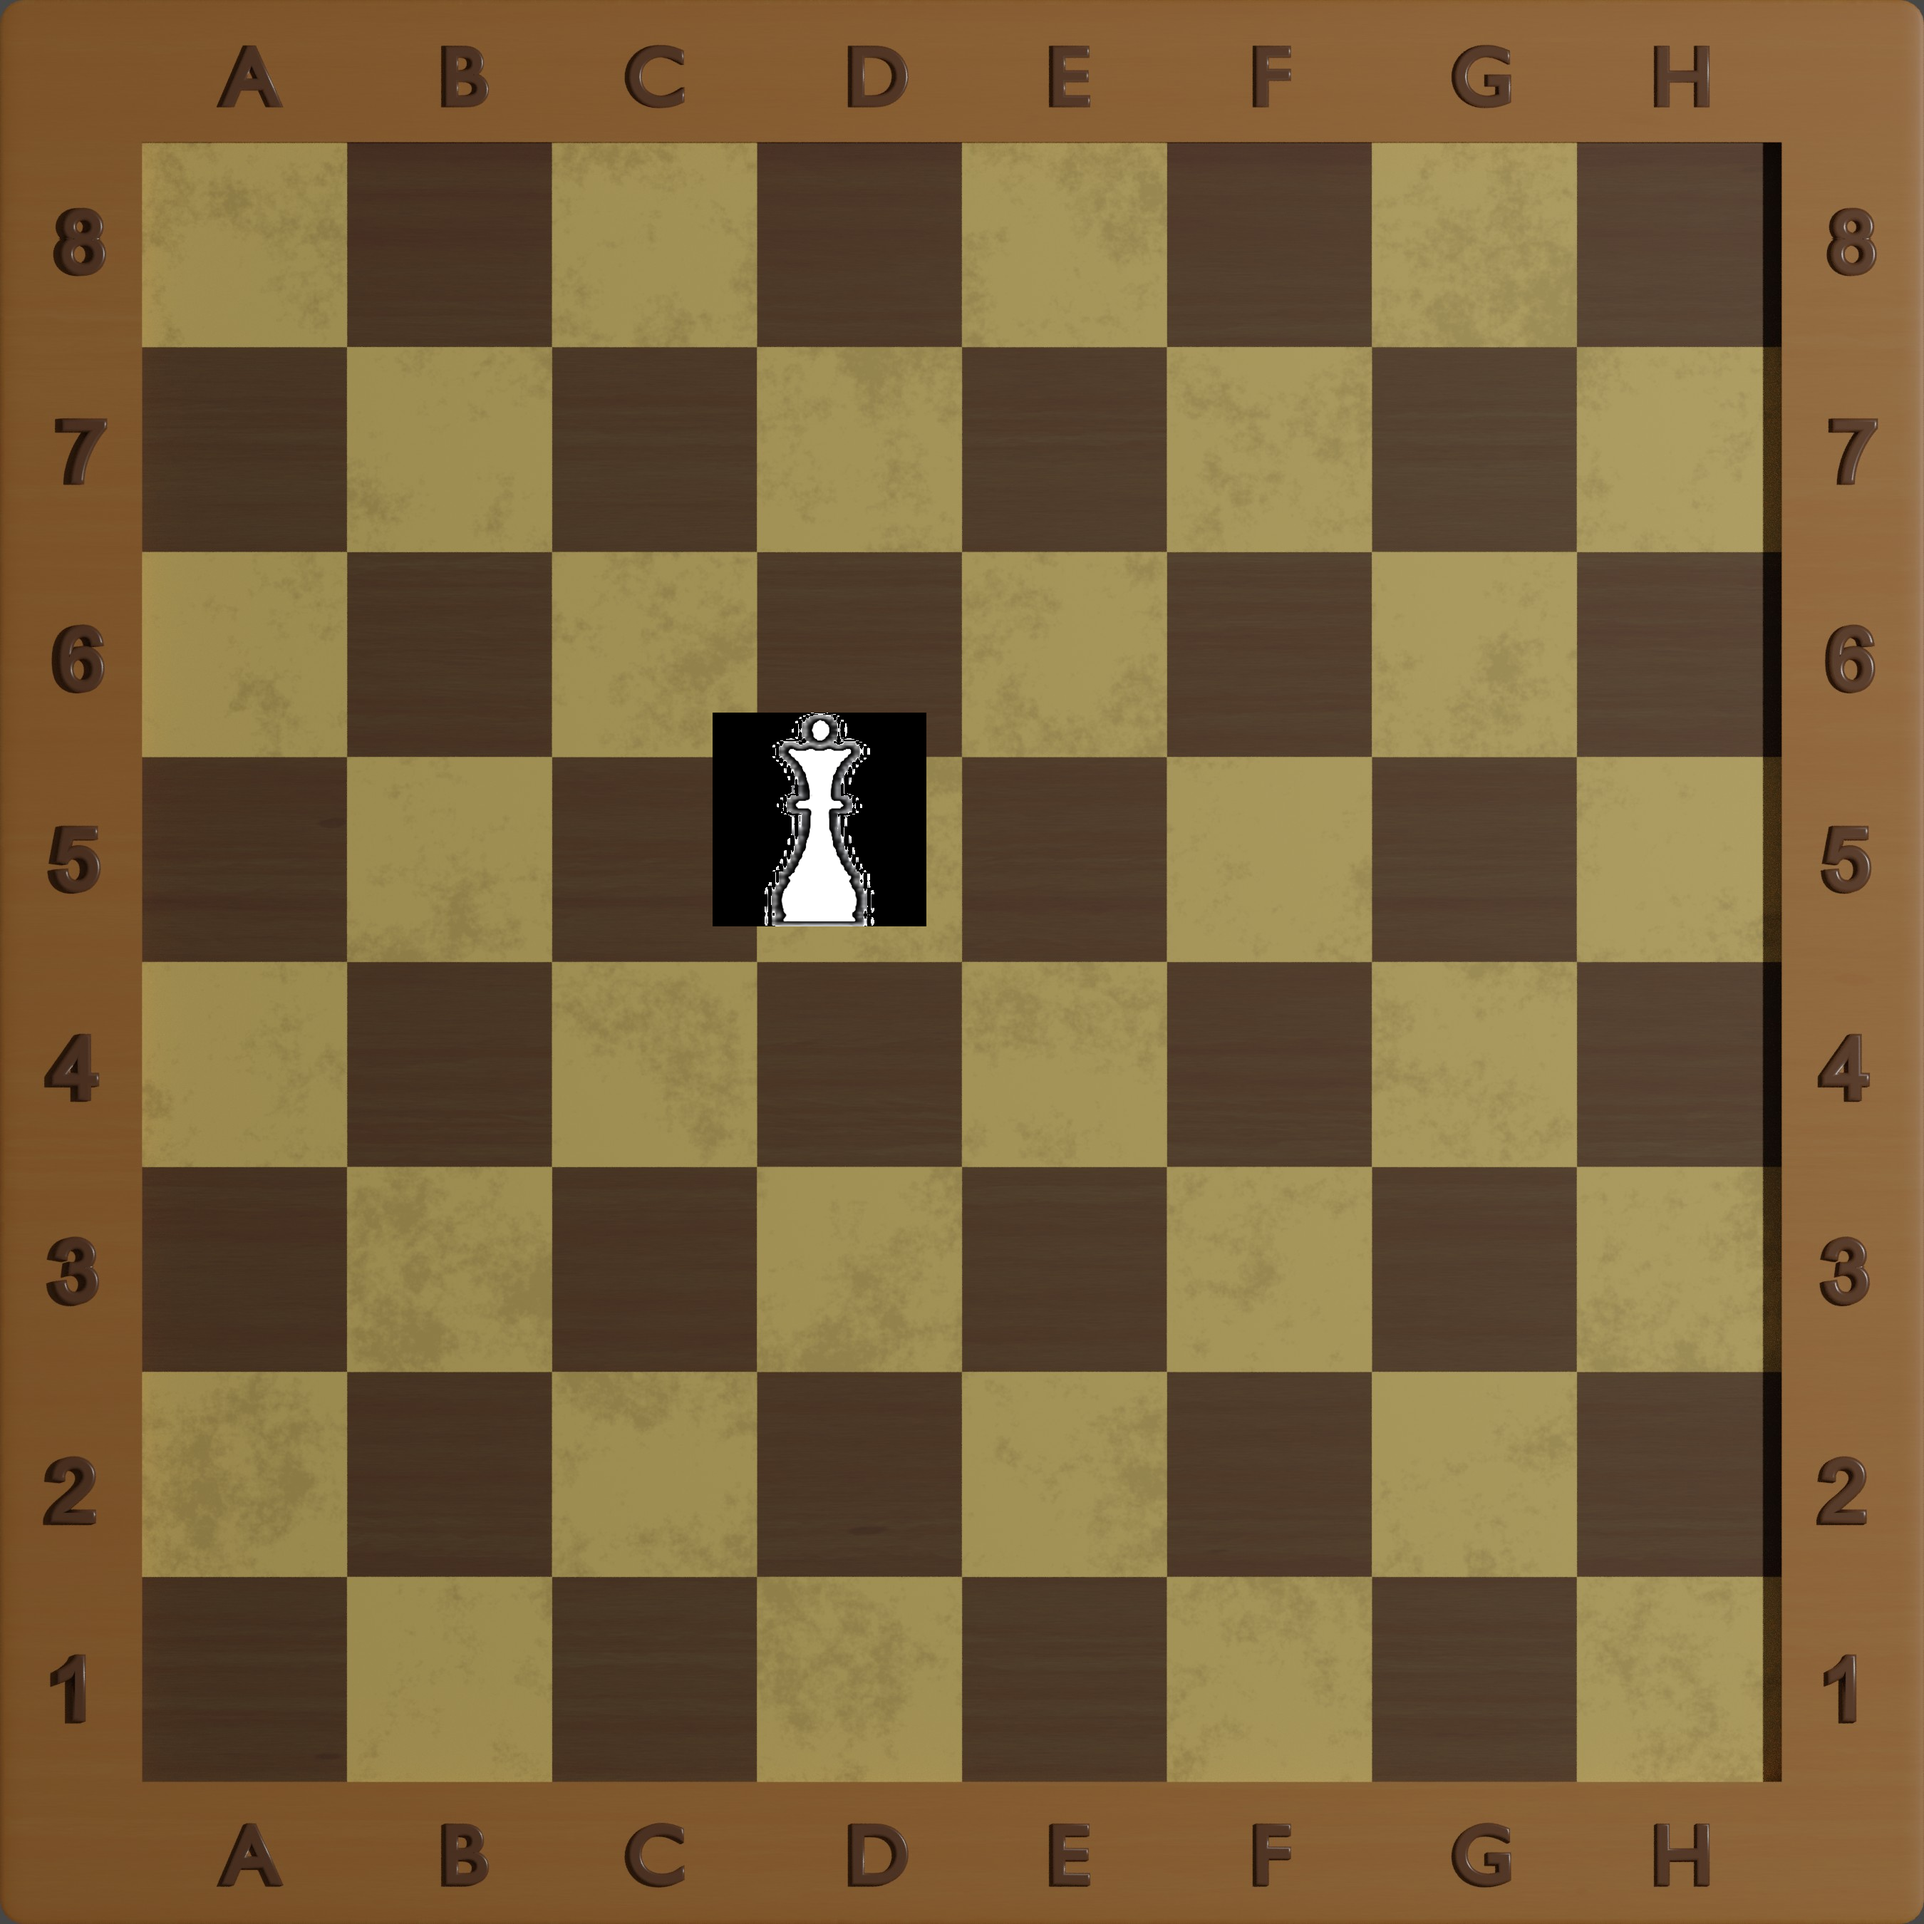
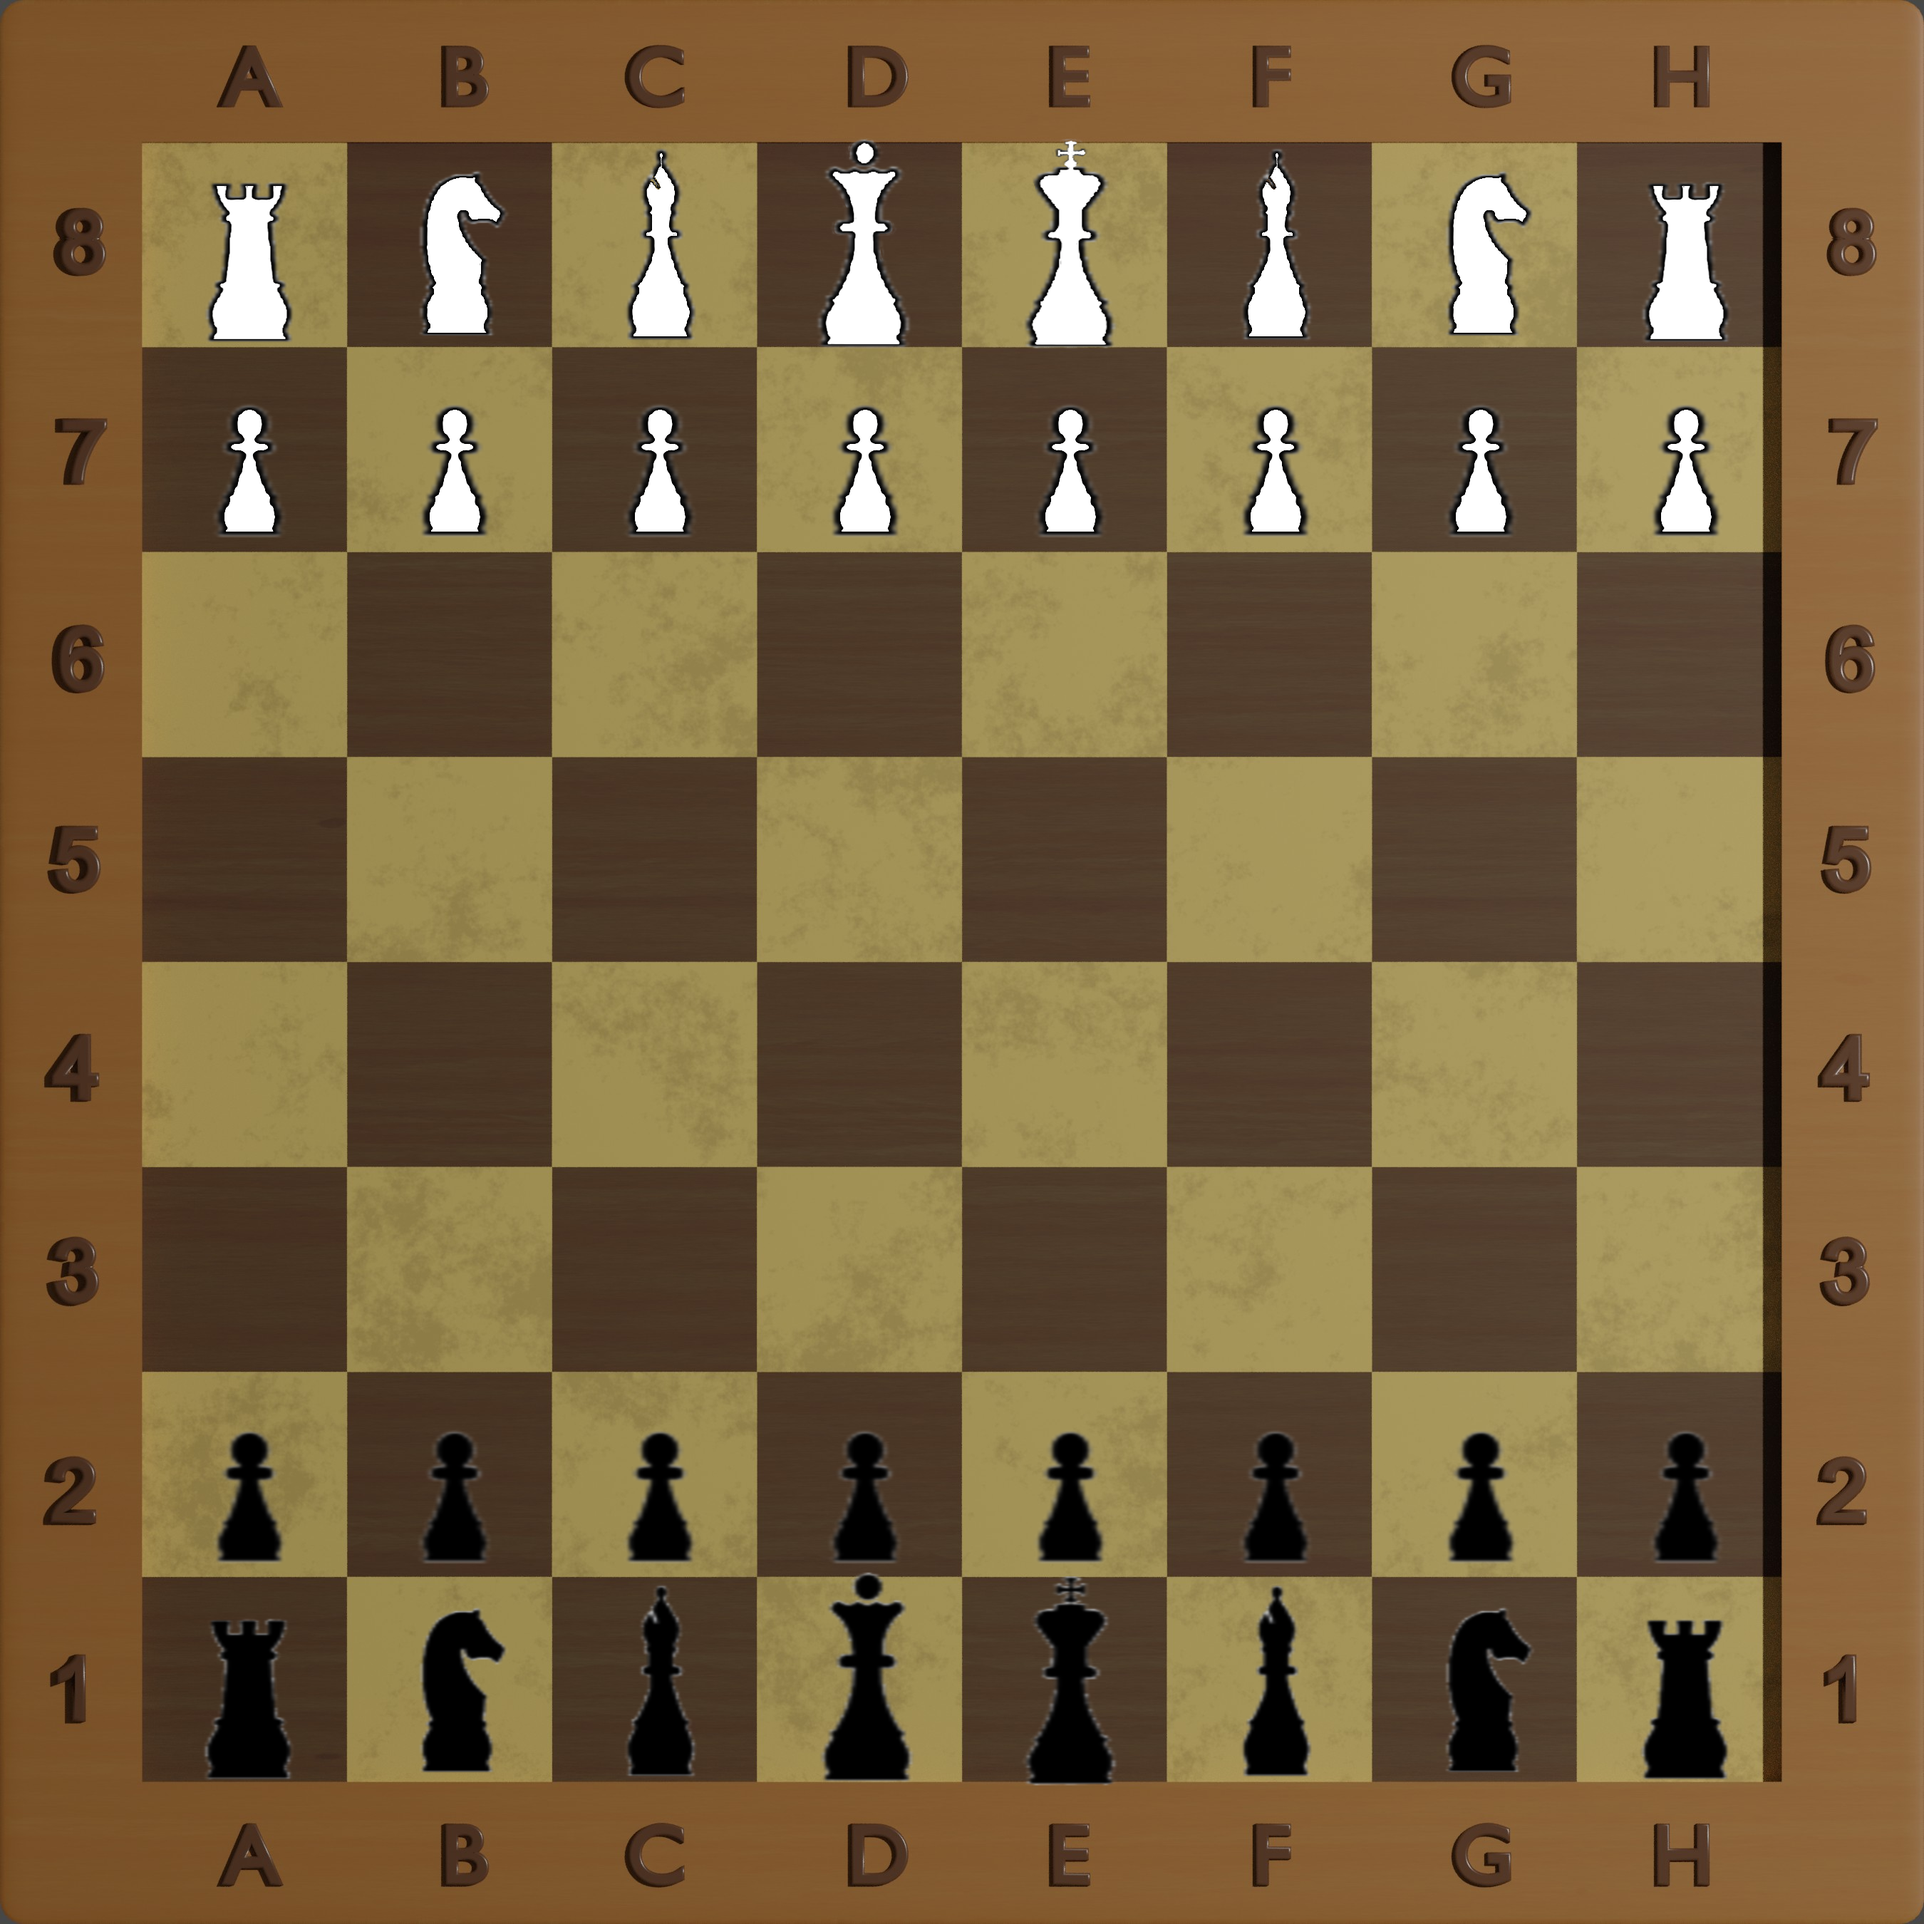
Graphique et new game Ok

diff --git a/src/class_echiquier.py b/src/class_echiquier.py
@@ -1,8 +1,56 @@
 # -*- coding: utf-8 -*-
+from PIL import Image
+from src.class_piece import Piece
 
 class Echiquier:
-    def __init__(self,echiquier):
-        self.echiquier=echiquier
+    
+       
+    def __init__(self):
+        """Un Echiquier est une liste de Piece
+
+        Args:
+            echiquier ([type]): [description]
+        """
+
         
-    def initialise(self,echiquier):
-        
+    def new_game(self,couleur_joueur : str ='blanc'):
+        """Creates a new game for player couleur_joueur
+
+        Args:
+            couleur_joueur = 'blanc' ou 'noir' à mettre en bas de l'echiquier
+        """
+        self.echiquier = []
+        col=couleur_joueur
+        lig = self._extracted_from_new_game('1', col, '2')
+        col = 'noir' if col=='blanc' else 'blanc'
+        lig = self._extracted_from_new_game('8', col, '7')
+        return self.echiquier
+
+    # To save typing parts for new_game twice
+    def _extracted_from_new_game(self, arg0, col, ligne):
+        result = arg0
+        self.echiquier.append(Piece(col, valeur='Roi', ligne=result, colonne='E'))
+        self.echiquier.append(Piece(col, valeur='Dame', ligne=result, colonne='D'))
+        self.echiquier.append(Piece(col, valeur='Fou', ligne=result, colonne='C'))
+        self.echiquier.append(Piece(col, valeur='Fou', ligne=result, colonne='F'))
+        self.echiquier.append(Piece(col, valeur='Cavalier', ligne=result, colonne='B'))
+        self.echiquier.append(Piece(col, valeur='Cavalier', ligne=result, colonne='G'))
+        self.echiquier.append(Piece(col, valeur='Tour', ligne=result, colonne='A'))
+        self.echiquier.append(Piece(col, valeur='Tour', ligne=result, colonne='H'))
+        for c in 'ABCDEFGH':
+            self.echiquier.append(Piece(col, valeur='Pion', ligne=ligne, colonne=c))
+
+        return result
+
+    def trace(self):
+        PLATEAU = Image.open('images\\échiquier.jpg')
+        image_new = Image.new('RGB',(PLATEAU.width,PLATEAU.height))
+        image_new.paste(PLATEAU,(0,0))
+        for p in self.echiquier:
+            figurine = Image.open(p.fichier)
+            c=int(198+'ABCDEFGH'.find(p.colonne)*288)
+            l=int(190+'12345678'.find(p.ligne)*288)
+            image_new.paste(figurine,(c,l),figurine)
+
+        image_new.save('images\\mergedImages.png')
+        return image_new

diff --git a/src/class_piece.py b/src/class_piece.py
@@ -20,5 +20,10 @@ class Piece:
     def __str__(self):
         print (self.valeur,' ',self.couleur,', placé en ',self.colonne, self.ligne)
     
+    @property
+    def fichier(self):
+        """Returns the file name of the picture of one piece
+        """
+        return f"images\\{self.valeur.capitalize()}_{self.couleur.lower()}.png"
         
         

diff --git a/image_mix.py b/image_mix.py
@@ -6,6 +6,10 @@ img2 = Image.open('images\\Dame_blanc.png')
 
 image_new = Image.new('RGB',(img1.width,img1.height))
 image_new.paste(img1,(0,0))
-image_new.paste(img2,(1000,1000))
+image_new.paste(img2,(195,185),img2)
+image_new.paste(img2,(2215,2200),img2)
+
+
+
 
 image_new.save('images\\mergedImages.png')

diff --git a/main.py b/main.py
@@ -1,3 +1,18 @@
 # -*- coding: utf-8 -*-
 
+from src.class_echiquier import Echiquier
+from src.class_piece import Piece
+
+pie=Piece()
+ech=Echiquier()
+
+ech.new_game('blanc')
+ech.trace()
+
+
+
+
+
+
+
 
